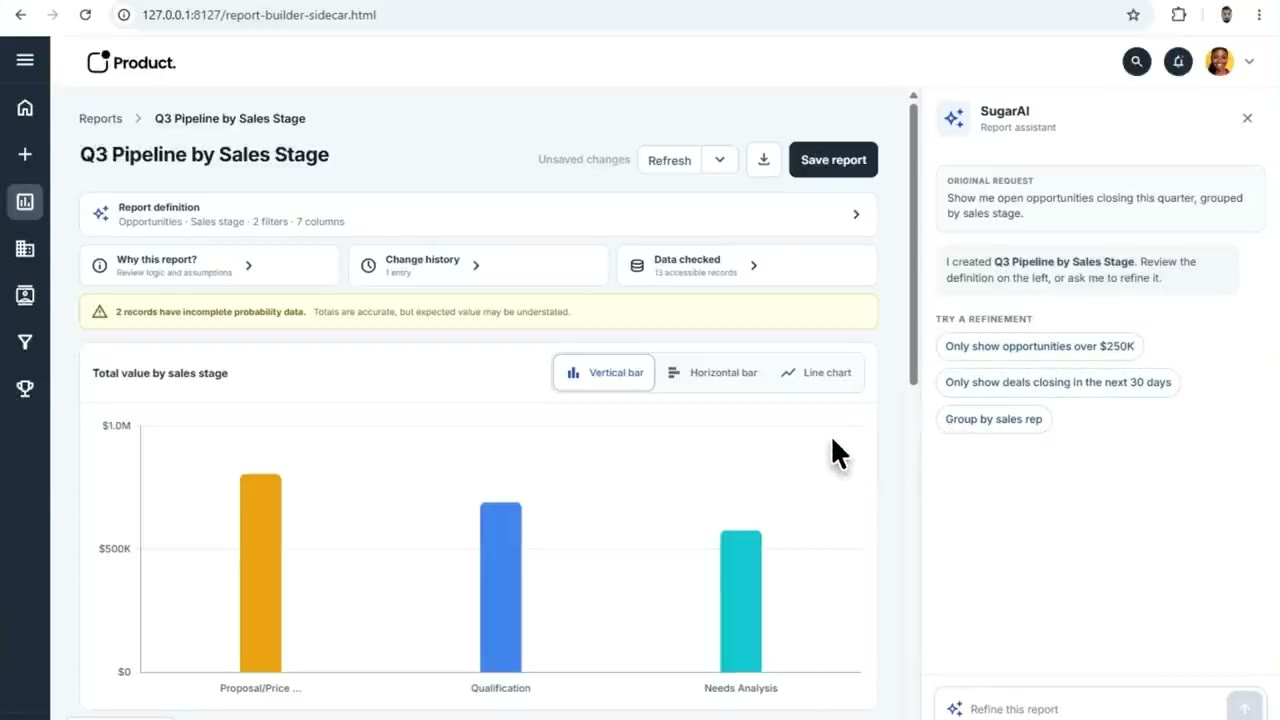
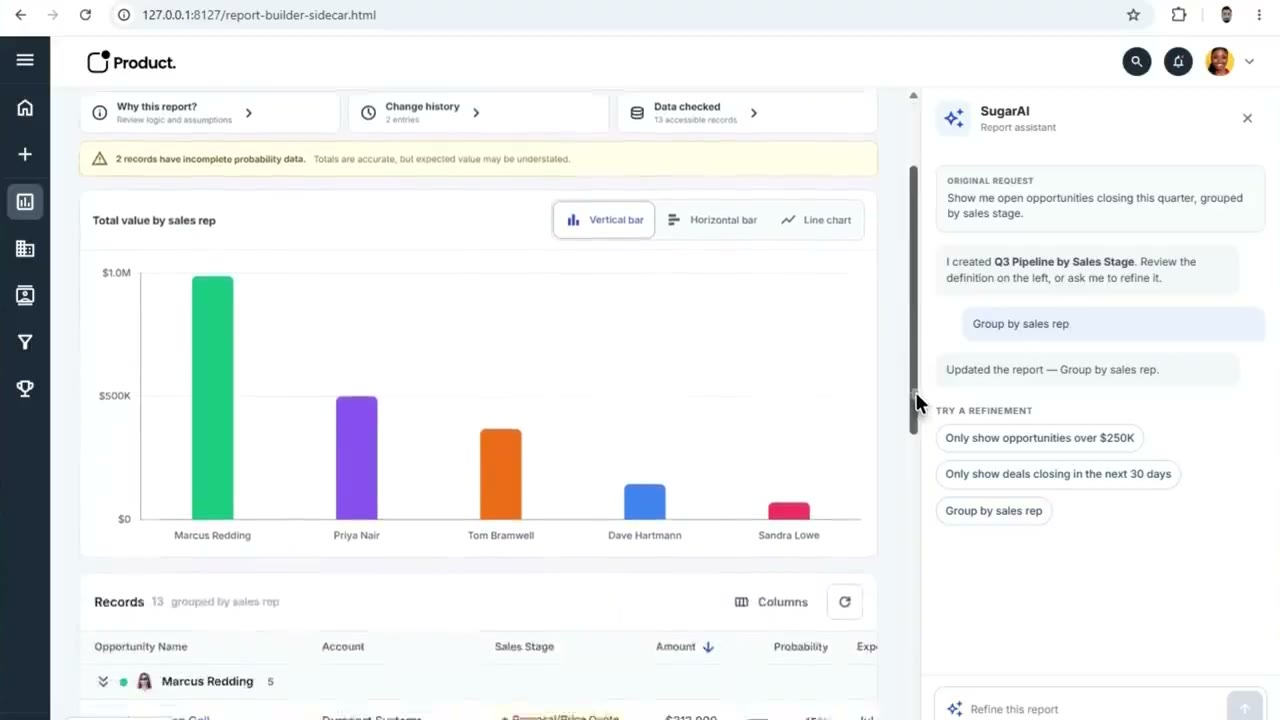
Improve report builder flow poster

diff --git a/report-builder.html b/report-builder.html
@@ -441,7 +441,7 @@
           </div>
           <figure class="case-video">
             <div class="case-video-frame case-video-frame--flow-2">
-              <video controls playsinline muted preload="metadata" poster="assets/report-builder/flow-2-refine-history-poster.jpg" aria-describedby="report-flow-2-caption">
+              <video controls playsinline muted preload="metadata" poster="assets/report-builder/flow-2-refine-history-poster.jpg?v=20260806-02" aria-describedby="report-flow-2-caption">
                 <source src="assets/report-builder/flow-2-refine-history.mp4?v=20260723-01" type="video/mp4" />
                 Your browser does not support embedded video.
               </video>
